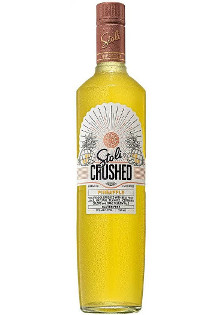
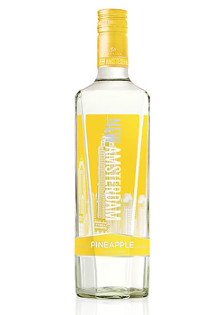
Added remaining Contenders Swapped out liquors Added Bands

Changed region(s): [[0.3243, 0.0, 0.6757, 1.0]]

diff --git a/src/Components/Liquors/Liquors.js b/src/Components/Liquors/Liquors.js
@@ -2,7 +2,7 @@ import React, { Component } from 'react'
 import Section from '../Section/Section'
 import Liquor from './Liquor';
 import Pineapple from './Pineapple.jpg';
-import Mango from './Mango.jpg';
+import Peach from './Peach.jpg';
 import RumHaven from './RumHaven.jpg';
 import Honey from './Honey.jpg';
 import Grapefruit from './Grapefruit.jpg';
@@ -12,19 +12,21 @@ import './Liquors.css';
 
 export default class Liquors extends Component {
   render() {
-      const stoli = "https://stoli.com/?utm_source=charleston_pride&utm_medium=toast_to_equality&utm_campaign=sponsors"
-      const jack = "https://www.jackdaniels.com/en-us/whiskey/tennessee-honey/?utm_source=charleston_pride&utm_medium=toast_to_equality&utm_campaign=sponsors"
-      const camerena = "http://www.tequilacamarena.com/tequilas/silver?utm_source=charleston_pride&utm_medium=toast_to_equality&utm_campaign=sponsors"
-      const rumHaven = "http://www.rumhaven.com/?utm_source=charleston_pride&utm_medium=toast_to_equality&utm_campaign=sponsors"
+      const peach = "http://www.newamsterdamspirits.com/vodka/peach"
+      const pineapple = "http://www.newamsterdamspirits.com/vodka/pineapple"
+      const grapefruit = "http://www.newamsterdamspirits.com/flavors"
+      const jack = "https://www.jackdaniels.com/en-us/whiskey/tennessee-honey/"
+      const camerena = "http://www.tequilacamarena.com/tequilas/silver/"
+      const rumHaven = "http://www.rumhaven.com/"
       return (
         <Section id="liquors" title="Meet the Liquors">
             <div className="row">
-                  <Liquor image={Grapefruit} name="Stoli Crushed Ruby Red Grapefruit" url={stoli + "&utm_content=grapefruit"} />
-                  <Liquor image={Camarena} name="Camerena Tequila Silver" url={camerena} />
-                  <Liquor image={Pineapple} name="Stoli Crushed Pineapple" url={stoli + "&utm_content=pineapple"} />
-                  <Liquor image={Honey} name="Jack Daniels Tennessee Honey" url={jack} />
-                  <Liquor image={Mango} name="Stoli Crushed Mango" url={stoli + + "&utm_content=mango"} />
-                  <Liquor image={RumHaven} name="RumHaven Coconut Rum" url={rumHaven} />
+              <Liquor image={Peach} name="New Amsterdam Peach Vodka" url={peach} />
+              <Liquor image={Camarena} name="Camerena Tequila Silver" url={camerena} />
+              <Liquor image={Pineapple} name="New Amsterdam Pineapple Vodka" url={pineapple} />
+              <Liquor image={Honey} name="Jack Daniels Tennessee Honey" url={jack} />
+              <Liquor image={Grapefruit} name="New Amsterdam Grapefruit Vodka" url={grapefruit} />
+              <Liquor image={RumHaven} name="RumHaven Coconut Rum" url={rumHaven} />
             </div>
               <div className="row">
                   <img className="breakthru img-fluid" alt="Breakthru Beverage Logo" src={Breakthru} />

diff --git a/src/Components/Contenders/Contender.js b/src/Components/Contenders/Contender.js
@@ -5,15 +5,13 @@ export default class Contendor extends Component {
     Social(props) {
         return props.page.length > 0 && <li className="list-inline-item"><a target="_blank" rel="noopener noreferrer" href={props.url + props.page +"/?utm_source=charleston_pride&utm_medium=toast_to_equality&utm_campaign=sponsors"}><i className={"fa fa-" + props.icon}></i></a></li>
     }
-    Contact(props) {
-        return <li className="list-inline-item"><a href={props.link}><i className="fa fa-envelope"></i> Contact Us</a></li>
-    }
+
   render(props) {
     return (
             <div className="gb-post">
                 <div className="entry-header">
                     <div className="entry-thumbnail">
-                        <a href={this.props.web}><img src={this.props.logo} alt={this.props.title + " logo"} width="250px" height="250px" /></a>
+                    <a href={this.props.web + "?utm_source=charleston_pride&utm_medium=toast_to_equality&utm_campaign=sponsors"}><img src={this.props.logo} alt={this.props.title + " logo"} width="250px" height="250px" /></a>
                     </div>
                 </div>
                 <div className="entry-content">
@@ -24,7 +22,7 @@ export default class Contendor extends Component {
                                 <this.Social icon="facebook-square" url="https://facebook.com/" page={this.props.facebook}/>
                                 <this.Social icon="twitter-square" url="https://twitter.com/" page={this.props.twitter}/>
                                 <this.Social icon="instagram" url="https://instagram.com/" page={this.props.instagram}/>
-                                {this.props.web.length > 0 && this.props.web.startsWith("mailto:") ? <this.Contact link={this.props.web}/> : <this.Social icon="globe" url="" page={this.props.web} /> }
+                                <this.Social icon="globe" url="" page={this.props.web} />
                             </ul>
                         </div>
                     </div>

diff --git a/src/Components/Contenders/Contenders.js b/src/Components/Contenders/Contenders.js
@@ -13,7 +13,8 @@ import Toast from './toast.png'
 import Voodoo from './voodoo.jpg'
 import Warehouse from './warehouse.jpg'
 import Semilla from './semilla_dark.jpg'
-import Placeholder from './placeholder.jpg'
+import Proof from './proof.png'
+import Macintosh from './macintosh.png'
 
 export default class Contenders extends Component {
   
@@ -59,7 +60,8 @@ export default class Contenders extends Component {
           <Contender name="Voodoo Tiki Bar" facebook="VooTikiBar" twitter="voodoo_tikibar" instagram="voodootikibar" web="http://www.voodootikibar.com" logo={Voodoo} />
           <Contender name="Warehouse" facebook="warehousecharleston" twitter="team_warehouse" instagram="wearewarehouse" web="http://wearewarehouse.com" logo={Warehouse} />
           <Contender name="Semilla" facebook="semillachs" twitter="semillachs" instagram="semillachs" web="http://semillachs.com/" logo={Semilla}  />
-          <Contender name="" facebook="" twitter="" instagram="" web="mailto:info@toasttoequality.com?subject=Contender Registration" logo={Placeholder}/>
+          <Contender name="The Macintosh" facebook="TheMacintoshCharleston" twitter="macintoshchs" instagram="macintoshchs" web="http://themacintoshcharleston.com/" logo={Macintosh} />
+          <Contender name="Proof" facebook="proofcharleston" twitter="proofonking" instagram="semillachs" web="http://www.charlestonproof.com/" logo={Proof} />
           </Slider>
         </Section>
     )

diff --git a/src/Components/Liquors/Liquor.js b/src/Components/Liquors/Liquor.js
@@ -2,6 +2,7 @@ import React, { Component } from 'react'
 
 export default class Liquor extends Component {
   render(props) {
+      const utm = "?utm_source=charleston_pride&utm_medium=toast_to_equality&utm_campaign=sponsors"
     return (
         <div className="col-6 col-md-4 col-lg-2">
             <div className="liquor">
@@ -9,10 +10,12 @@ export default class Liquor extends Component {
                 <div className="gb-overlay">
                     <div className="overlay-content">
                         <div className="row">
+                            <div className="col">
                             <h3 className="align-middle" >{this.props.name}</h3>
+                            </div>
                         </div>
                         <div className="row">
-                            <a href={this.props.url} target="_blank"><i className="fa fa-globe"></i></a>
+                            <a href={this.props.url + utm} target="_blank" rel="noopener noreferrer"><i className="fa fa-globe"></i></a>
                         </div>
                     </div>
                 </div>

diff --git a/src/Components/Entertainment/Entertainment.js b/src/Components/Entertainment/Entertainment.js
@@ -23,13 +23,16 @@ export default class Entertainment extends Component {
                         <div className="convenience">
                             <img src={Microphone} alt="microphone" />
                             <h1>MC Mike Edwards </h1>
-                            <h2>Mix 95.9 Two Girls &amp; a Guy</h2>
+                            <h2>Mix 95.9</h2>
+                            <h2>Two Girls &amp; a Guy</h2>
                         </div>
                     </div>
                     <div className="col-sm-4">
                         <div className="convenience">
                             <img src={Guitar} alt="guitar"/>
                             <h1>Live Bands</h1>
+                            <h2>Jump Castle Riot</h2>
+                            <h2>Bender Funk</h2>
                         </div>
                     </div>
                 </div>

diff --git a/src/Components/Liquors/Liquors.css b/src/Components/Liquors/Liquors.css
@@ -51,8 +51,8 @@
 
 .overlay-content h3 {
 	color: #fff;
- 	font-size: 20px;
-	margin: 15px 40px;
+ 	font-size: 1.5em;
+	margin: 25px 5px;
 }
 
 .breakthru {
